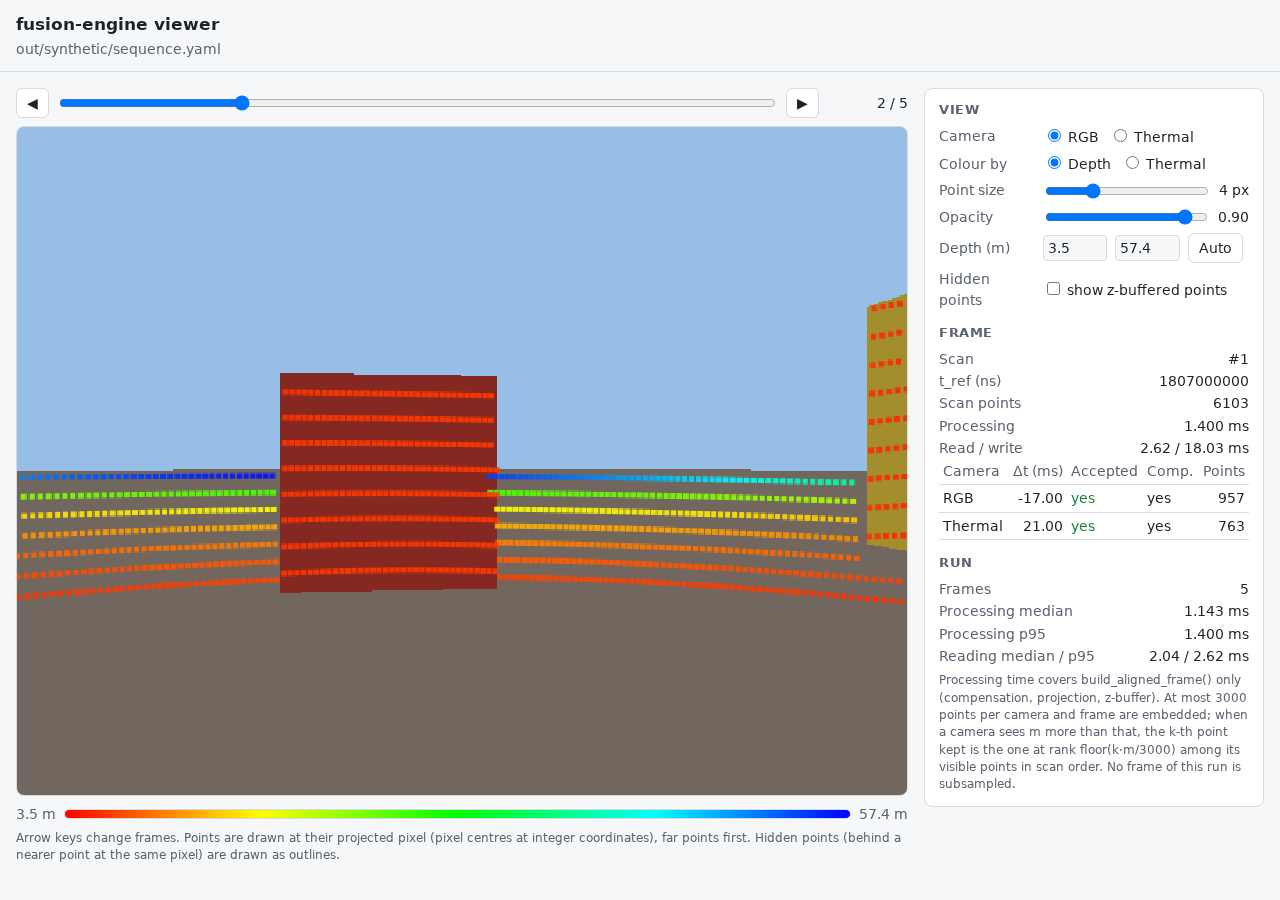
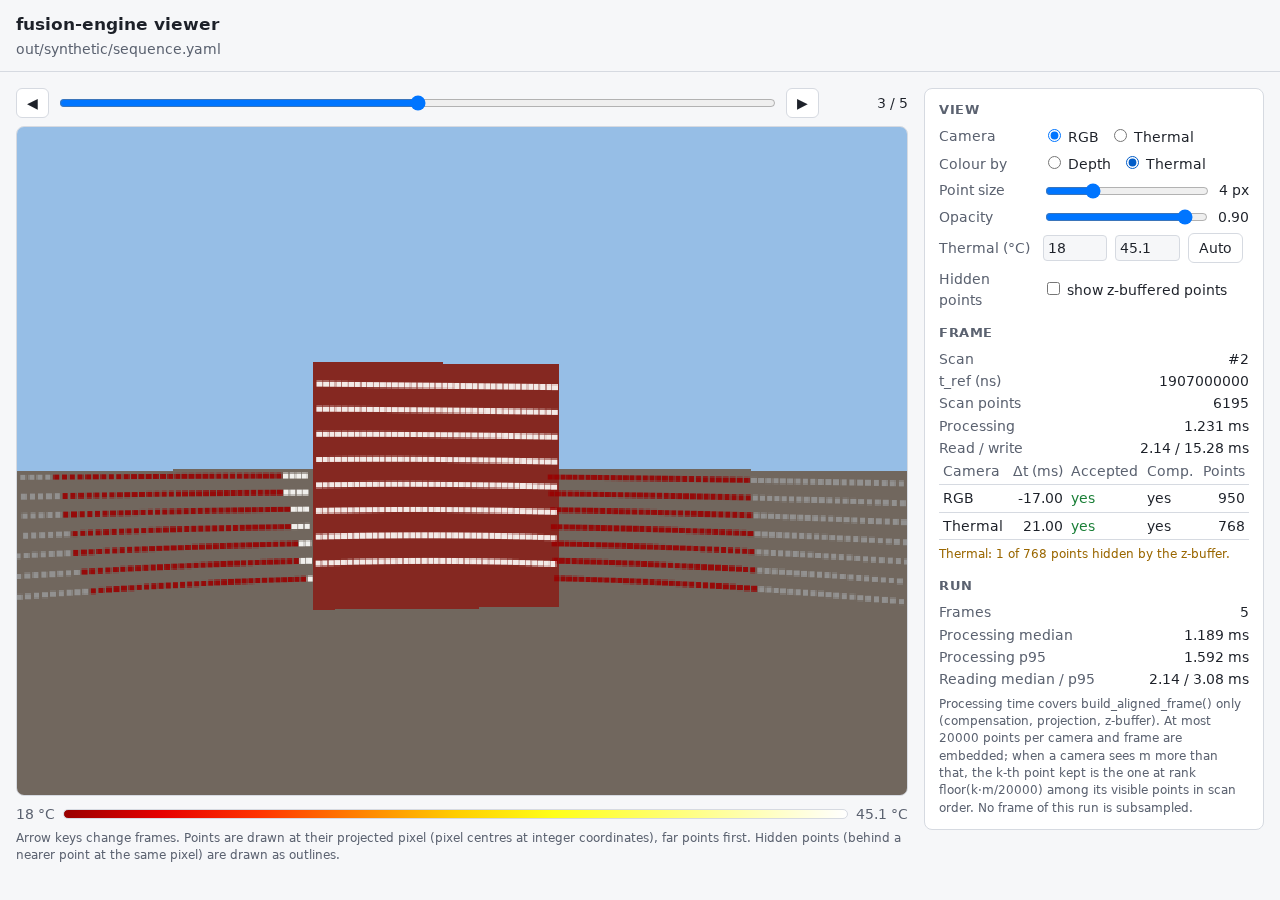
fix: give the synthetic thermal scene realistic apparent temperatures
The synthetic sequence applied the example Planck constants to raw values
(8000-65535) that do not correspond to everyday scenes, so the viewer
showed 155-211 °C. Each surface now has an apparent temperature (road
18 °C, wall and blocks 12-26 °C, the vehicle-sized box ahead 45 °C, sky
-15 °C) converted to a raw count with the inverse of the camera's Planck
model (celsius_to_raw in test support); the camera reads them back to
within 0.01 °C. Scene::reference() keeps its raw values, which other tests
use as edge cases; the sequence sets its own with Scene::set_raw().

The Planck constants are unchanged and now documented as illustrative but
physically reasonable for an uncooled LWIR camera (B = c2 / 10.1 um, about
49 counts per kelvin at 20 °C). A new test checks the counts and read-back
temperatures against values computed with Python's decimal module.

The README screenshot is regenerated from the synthetic run in headless
Chromium: RGB view with points coloured by thermal, 18 to 45 °C.

diff --git a/tests/test_thermal_export.cpp b/tests/test_thermal_export.cpp
@@ -11,6 +11,7 @@
 #include <filesystem>
 #include <fstream>
 #include <iterator>
+#include <set>
 #include <sstream>
 #include <string>
 #include <vector>
@@ -123,4 +124,64 @@ TEST_CASE("thermal_export rejects bad arguments") {
     CHECK(run_export(quote(std::string(FUSION_TEST_OUTPUT_DIR) + "/missing.yaml") + " --out " +
                          quote(std::string(FUSION_TEST_OUTPUT_DIR) + "/thermal_export_missing"),
                      log) != 0);
+}
+
+TEST_CASE("synthetic thermal scene has realistic apparent temperatures") {
+    // Expected counts and read-back temperatures computed separately with
+    // Python's decimal module at 50 significant digits from
+    // S = R / (exp(B / (T + 273.15)) - F) + O, rounded, and
+    // T = B / ln(R / (S - O) + F) - 273.15.
+    struct Case {
+        double celsius;
+        std::uint16_t raw;
+        double back;
+    };
+    const Case surfaces[] = {
+        {18.0, 2755, 18.009618623534798807},  // ground (road)
+        {45.0, 4239, 45.000775571147893681},  // warm box ahead
+        {22.0, 2951, 21.990069179437776924},  // wall
+        {12.0, 2474, 12.002635736574103780},  // low block
+        {26.0, 3156, 25.992338607353652018},  // floating block
+    };
+    const Case sky{-15.0, 1425, -14.999260924897754969};
+
+    REQUIRE(std::size(kSyntheticSurfaceCelsius) == std::size(surfaces));
+    const SyntheticSequence s = make_synthetic_sequence(2);
+    REQUIRE(s.thermal.config.thermal.has_value());
+    const fusion::ThermalCalibration& cal = *s.thermal.config.thermal;
+    CHECK(cal.encoding == fusion::ThermalEncoding::planck);
+    for (std::size_t i = 0; i < std::size(surfaces); ++i) {
+        CAPTURE(i);
+        const Case& c = surfaces[i];
+        CHECK(kSyntheticSurfaceCelsius[i] == c.celsius);
+        CHECK(celsius_to_raw(c.celsius, kSyntheticPlanck) == c.raw);
+        CHECK(s.scene.raw_of(static_cast<int>(i)) == c.raw);
+        CHECK(std::abs(fusion::raw_to_celsius(c.raw, cal) - c.back) <= 1e-9);
+        CHECK(std::abs(fusion::raw_to_celsius(c.raw, cal) - c.celsius) < 0.01);
+    }
+    CHECK(kSyntheticSkyCelsius == sky.celsius);
+    CHECK(celsius_to_raw(sky.celsius, kSyntheticPlanck) == sky.raw);
+    CHECK(std::abs(fusion::raw_to_celsius(sky.raw, cal) - sky.back) <= 1e-9);
+
+    // Every pixel of every thermal frame is one of these counts: road and
+    // walls 10-30 °C, the warm box 35-60 °C, the sky -15 °C.
+    std::set<std::uint16_t> seen;
+    for (const fusion::RawThermalImage& img : s.thermal_images) {
+        seen.insert(img.values().begin(), img.values().end());
+    }
+    for (const std::uint16_t v : seen) {
+        CAPTURE(v);
+        const bool known = v == sky.raw || std::any_of(std::begin(surfaces), std::end(surfaces),
+                                                       [&](const Case& c) { return c.raw == v; });
+        CHECK(known);
+    }
+    CHECK(seen.count(2755) == 1);  // the thermal camera sees the road,
+    CHECK(seen.count(4239) == 1);  // the warm box ahead
+    CHECK(seen.count(1425) == 1);  // and the sky
+
+    // The inverse rejects counts outside 16 bits and invalid constants.
+    CHECK_THROWS_AS(celsius_to_raw(-150.0, kSyntheticPlanck), std::domain_error);
+    CHECK_THROWS_AS(celsius_to_raw(600.0, kSyntheticPlanck), std::domain_error);
+    CHECK_THROWS_AS(celsius_to_raw(20.0, fusion::PlanckParams{0.0, 1428.0, 1.0, 0.0}),
+                    std::invalid_argument);
 }

diff --git a/tests/support/synthetic_sequence.cpp b/tests/support/synthetic_sequence.cpp
@@ -7,6 +7,7 @@
 #include <cstdlib>
 #include <filesystem>
 #include <fstream>
+#include <iterator>
 #include <sstream>
 #include <stdexcept>
 #include <utility>
@@ -21,7 +22,6 @@ namespace fs = std::filesystem;
 
 constexpr std::int64_t kMs = 1'000'000;
 constexpr double kMaxDistance = 100.0;
-constexpr std::uint16_t kThermalBackground = 8000;
 
 std::string num(double v) {
     char buf[64];
@@ -136,6 +136,20 @@ std::string config_yaml(const fusion::SensorConfig& c) {
 
 }  // namespace
 
+std::uint16_t celsius_to_raw(double celsius, const fusion::PlanckParams& p) {
+    fusion::validate(p);
+    const double kelvin = celsius + 273.15;
+    const double d = std::exp(p.B / kelvin) - p.F;
+    if (!(kelvin > 0.0) || !(d > 0.0)) {
+        throw std::domain_error("celsius_to_raw: exp(B / T) - F is not positive");
+    }
+    const double s = std::round(p.R / d + p.O);
+    if (!(s >= 0.0 && s <= 65535.0)) {
+        throw std::domain_error("celsius_to_raw: raw count outside [0, 65535]");
+    }
+    return static_cast<std::uint16_t>(s);
+}
+
 SyntheticSequence make_synthetic_sequence(int scans) {
     if (scans < 1 || scans > 5) {
         throw std::invalid_argument("make_synthetic_sequence: scans must be in [1, 5]");
@@ -143,6 +157,11 @@ SyntheticSequence make_synthetic_sequence(int scans) {
     const auto n = static_cast<std::size_t>(scans);
     SyntheticSequence s;
     s.scene = Scene::reference();
+    static_assert(std::size(kSyntheticSurfaceCelsius) == 5, "ground and four boxes");
+    for (int surface = 0; surface < static_cast<int>(std::size(kSyntheticSurfaceCelsius)); ++surface) {
+        s.scene.set_raw(surface, celsius_to_raw(kSyntheticSurfaceCelsius[surface], kSyntheticPlanck));
+    }
+    const std::uint16_t sky_raw = celsius_to_raw(kSyntheticSkyCelsius, kSyntheticPlanck);
     s.rig = make_moving_rig();
     const MovingRig& rig = s.rig;
 
@@ -169,7 +188,7 @@ SyntheticSequence make_synthetic_sequence(int scans) {
     // Cameras.
     s.rgb.config = camera_config("rgb", rig.camera_K, rig.T_camera_lidar(), -2 * kMs);
     s.thermal.config = camera_config("thermal", rig.thermal_K, rig.T_thermal_lidar(), 5 * kMs);
-    s.thermal.config.thermal = fusion::ThermalCalibration::from_planck({380747.0, 1428.0, 1.0, -88.539});
+    s.thermal.config.thermal = fusion::ThermalCalibration::from_planck(kSyntheticPlanck);
     for (std::size_t j = 0; j < 2 * n; ++j) {
         s.rgb.stamps_ref_ns.push_back(t_l[0] + 33 * kMs + 50 * kMs * static_cast<std::int64_t>(j));
     }
@@ -192,7 +211,7 @@ SyntheticSequence make_synthetic_sequence(int scans) {
     for (std::int64_t t : s.thermal.stamps_ref_ns) {
         const PinholeCamera cam = rig.thermal_at(t);
         s.thermal_images.emplace_back(cam.K.width, cam.K.height,
-                                      cam.render_raw(s.scene, kMaxDistance, kThermalBackground));
+                                      cam.render_raw(s.scene, kMaxDistance, sky_raw));
     }
 
     // Trajectory every 40 ms, covering every scan and image time.

diff --git a/tests/support/synthetic_sequence.hpp b/tests/support/synthetic_sequence.hpp
@@ -14,6 +14,13 @@
 // Sensor clocks: LiDAR offset 0, RGB offset -2 ms, thermal offset +5 ms
 // (t_reference = t_sensor + time_offset_ns).
 // Each image is rendered from the camera's true pose at its reference time.
+//
+// Thermal: the scene is the reference scene's geometry with an apparent
+// temperature per surface (kSyntheticSurfaceCelsius; the sky where nothing is
+// hit is kSyntheticSkyCelsius). Each temperature is converted to a raw count
+// with celsius_to_raw() and the camera's Planck constants kSyntheticPlanck,
+// so the camera's conversion reads it back to within half a count (under
+// 0.01 °C for these temperatures).
 #pragma once
 
 #include <cstddef>
@@ -31,6 +38,31 @@
 #include "sensors.hpp"
 
 namespace fusion::testing {
+
+// Planck constants of the synthetic thermal camera (T = B / ln(R / (S - O) +
+// F) - 273.15). Illustrative, not the calibration of a specific camera, but
+// physically reasonable for an uncooled LWIR microbolometer: B = c2 / lambda
+// with c2 = 14388 um K gives an effective wavelength of 10.1 um, the middle
+// of the 8-14 um band; F = 1 makes S - O proportional to the Planck radiance
+// at that wavelength; and 10 to 60 °C maps to counts 2384 to 5222 (14-bit
+// range), about 49 counts per kelvin (0.02 K per count) at 20 °C, finer
+// than the 30-60 mK noise of such cameras.
+inline constexpr fusion::PlanckParams kSyntheticPlanck{380747.0, 1428.0, 1.0, -88.539};
+
+// Apparent temperature (°C) of each surface of the synthetic thermal scene,
+// indexed by surface id: the ground (road), the warm box ahead on +x
+// (2 x 2 x 2 m, vehicle-sized, e.g. a running engine), the wall on +y, the
+// low block on -x and the floating block on -y.
+inline constexpr double kSyntheticSurfaceCelsius[] = {18.0, 45.0, 22.0, 12.0, 26.0};
+// Apparent temperature of the clear sky, which is cold in the LWIR band.
+inline constexpr double kSyntheticSkyCelsius = -15.0;
+
+// Raw count whose Planck temperature is `celsius`: the inverse
+// S = R / (exp(B / (T + 273.15)) - F) + O, rounded to the nearest integer.
+// Throws std::invalid_argument for invalid constants (fusion::validate) and
+// std::domain_error when exp(B / T) - F is not positive or the count is not
+// in [0, 65535].
+std::uint16_t celsius_to_raw(double celsius, const fusion::PlanckParams& params);
 
 struct ExpectedMatch {
     std::size_t index = 0;          // camera frame index

diff --git a/tests/support/scene.cpp b/tests/support/scene.cpp
@@ -104,6 +104,18 @@ std::uint16_t Scene::raw_of(int surface) const {
     return box_raw_[static_cast<std::size_t>(box)];
 }
 
+void Scene::set_raw(int surface, std::uint16_t raw) {
+    if (surface == kGroundSurface) {
+        ground_raw_ = raw;
+        return;
+    }
+    const int box = surface - kFirstBoxSurface;
+    if (box < 0 || box >= static_cast<int>(box_raw_.size())) {
+        throw std::out_of_range("Scene::set_raw: unknown surface");
+    }
+    box_raw_[static_cast<std::size_t>(box)] = raw;
+}
+
 bool Scene::on_surface(const Vec3& p, double tol) const {
     if (std::abs(p.z() - ground_z_) <= tol) return true;
     for (const Box& b : boxes_) {

diff --git a/tests/support/scene.hpp b/tests/support/scene.hpp
@@ -54,6 +54,10 @@ public:
     // kNoSurface or an unknown id.
     std::uint16_t raw_of(int surface) const;
 
+    // Replaces the thermal raw value of a surface id; the geometry is
+    // unchanged. Throws std::out_of_range for kNoSurface or an unknown id.
+    void set_raw(int surface, std::uint16_t raw);
+
     static constexpr std::uint16_t kDefaultGroundRaw = 14000;
     static constexpr std::uint16_t kDefaultBoxRaw = 20000;
 

diff --git a/README.md b/README.md
@@ -14,12 +14,16 @@ It has been checked against synthetic ground truth and on three real datasets
 
 > **Status: early-stage.** No release yet, no stable API.
 
-![The fuse_cli web viewer on the synthetic sequence: the RGB image of frame 2
-with LiDAR points coloured by depth, and the side panel with association,
-point counts and latency](docs/images/viewer-synthetic.png)
+![The fuse_cli web viewer on the synthetic sequence: the RGB image of scan 2
+with LiDAR points coloured by their thermal-camera temperature, 18 °C road
+and a 45 °C box, and the side panel with association, point counts and
+latency](docs/images/viewer-synthetic.png)
 
-*The `fuse_cli --viewer` page for frame 2 of the synthetic sequence (rendered
-test scene, no dataset imagery). Captured with headless Chromium.*
+*The `fuse_cli --viewer` page for scan 2 of the synthetic sequence (rendered
+test scene, no dataset imagery), RGB view with points coloured by the
+temperature the thermal camera reads for them: the road at 18 °C, the warm
+box ahead at 45 °C, grey where the thermal camera has no value. Captured
+with headless Chromium.*
 
 ## Pipeline at a glance
 
@@ -264,7 +268,14 @@ none of the box points agree (median error 0.26 m).
 `tests/support/synthetic_sequence.hpp` turns the rig into a sequence: five
 10 Hz scans, 20 Hz RGB, 10 Hz thermal with one dropped frame, clock offsets,
 and a trajectory every 40 ms. Scan 0 has no RGB image and scan 3 no thermal
-image within `tau`, so both rejection paths run. The tests check that the
+image within `tau`, so both rejection paths run. Each thermal surface has
+an apparent temperature (road 18 °C, walls and blocks 12–26 °C, a warm
+vehicle-sized box 45 °C, sky −15 °C) converted to a raw count with the
+inverse of the camera's Planck model, so the thermal camera reads them back
+to within 0.01 °C. The Planck constants (R 380747, B 1428, F 1,
+O −88.539) are illustrative, not a specific camera's calibration, but fit an
+uncooled LWIR camera: B corresponds to a 10.1 µm effective wavelength and
+there are about 49 counts per kelvin at 20 °C. The tests check that the
 readers return the generator's values exactly, that association matches a
 brute-force search, that at least 96% of the projected points in each
 accepted image match ray-cast depth (1e-9 relative in memory, 1e-5 from the

diff --git a/docs/sequence-format.md b/docs/sequence-format.md
@@ -124,7 +124,11 @@ thermal:
 
 `planck` is for raw radiometric counts S:
 `T = B / ln(R / (S - O) + F) - 273.15`, with finite constants, R > 0 and
-B > 0.
+B > 0. The example constants are the synthetic thermal camera's; they are
+illustrative, not a specific camera's calibration, but fit an uncooled LWIR
+camera (B = c2 / λ for an effective wavelength of 10.1 µm; 20 °C is raw
+2852, with about 49 counts per kelvin). Use the constants from your
+camera's calibration.
 
 ```yaml
 thermal:
